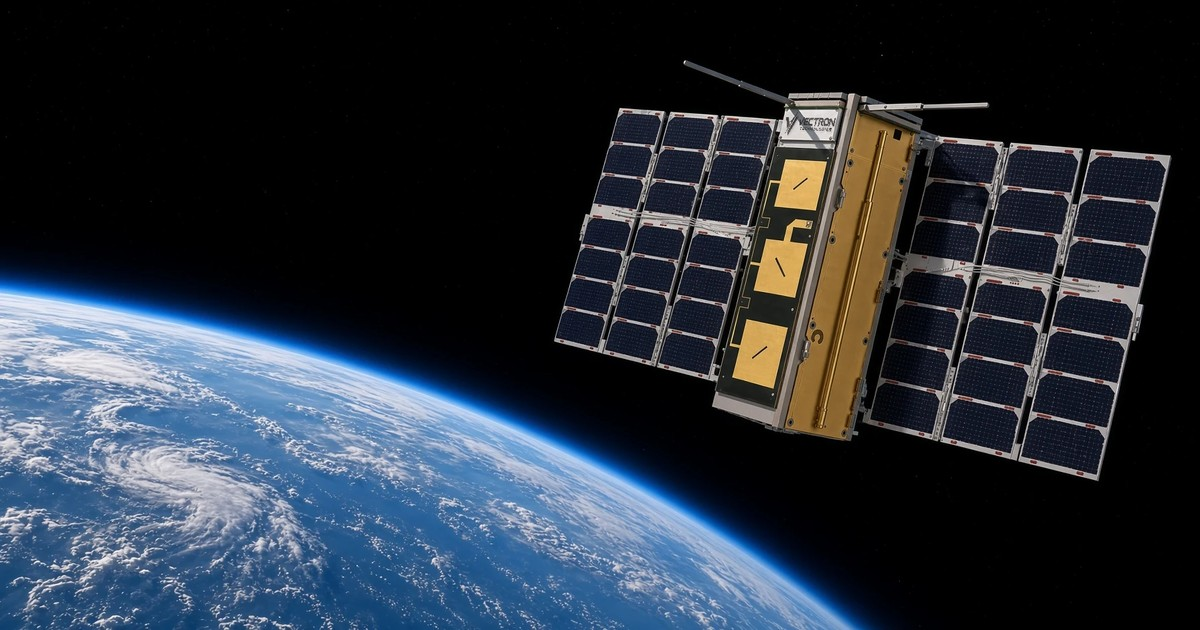
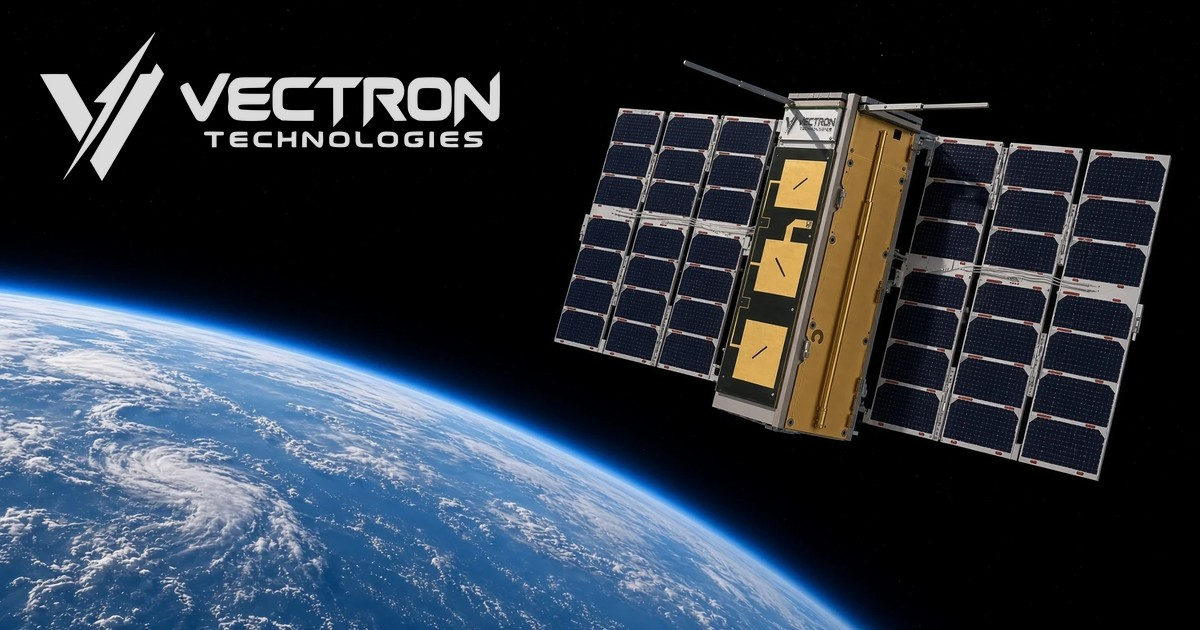
Add a watermarked CubeSat image for link previews.
Use it as the homepage and default Open Graph and Twitter card, and give the blog post the same watermark.

Changed region(s): [[0.0308, 0.0603, 0.4317, 0.2714]]

diff --git a/public/index.html b/public/index.html
@@ -8,6 +8,12 @@
   <meta property="og:title" content="Vectron Technologies | Antenna &amp; EM Engineering">
   <meta property="og:description" content="Independent antenna design, analysis, and test for defense and aerospace programs.">
   <meta property="og:type" content="website">
+  <meta property="og:url" content="https://vectrontechnologies.com/">
+  <meta property="og:image" content="https://vectrontechnologies.com/og.jpg">
+  <meta property="og:image:width" content="1200">
+  <meta property="og:image:height" content="630">
+  <meta name="twitter:card" content="summary_large_image">
+  <meta name="twitter:image" content="https://vectrontechnologies.com/og.jpg">
   <meta name="theme-color" content="#050505">
   <link rel="icon" type="image/svg+xml" href="/favicon.svg">
   <link rel="preload" href="/assets/fonts/space-grotesk-latin-wght-normal.BhU9QXUp.woff2" as="font" type="font/woff2" crossorigin>

diff --git a/public/blog/cubesat-gnssr-emerge/index.html b/public/blog/cubesat-gnssr-emerge/index.html
@@ -13,7 +13,10 @@
 <meta property="og:description" content="A CubeSat GNSS-R array rebuilt in EMerge and checked against HFSS and measurement.">
 <meta property="og:url" content="https://vectrontechnologies.com/blog/cubesat-gnssr-emerge/">
 <meta property="og:image" content="https://vectrontechnologies.com/blog/cubesat-gnssr-emerge/images/og.jpg">
+<meta property="og:image:width" content="1200">
+<meta property="og:image:height" content="630">
 <meta name="twitter:card" content="summary_large_image">
+<meta name="twitter:image" content="https://vectrontechnologies.com/blog/cubesat-gnssr-emerge/images/og.jpg">
 <meta name="theme-color" content="#050505">
 <link rel="preconnect" href="https://fonts.googleapis.com">
 <link rel="preconnect" href="https://fonts.gstatic.com" crossorigin>
